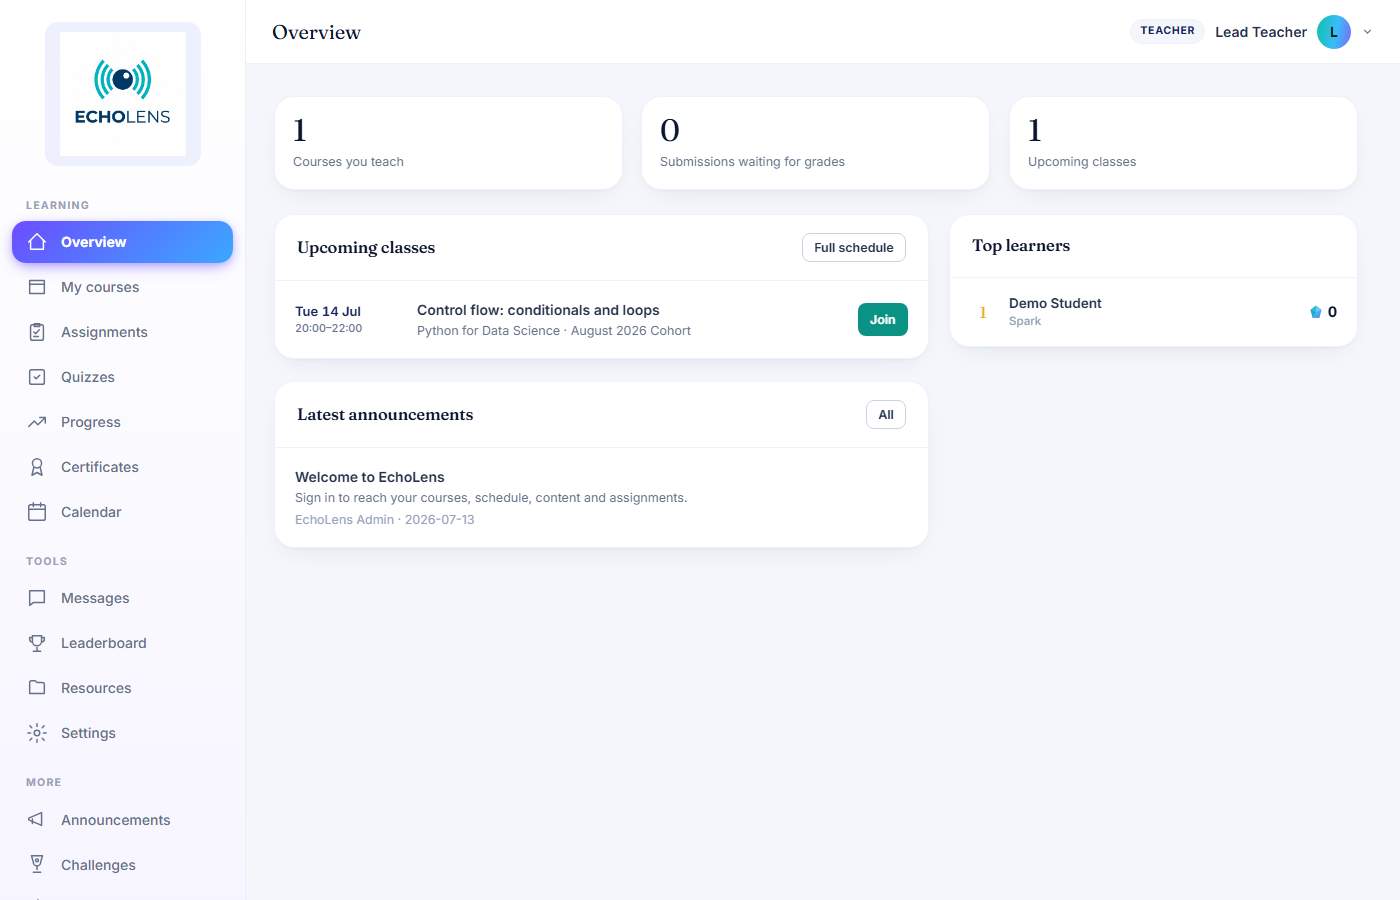
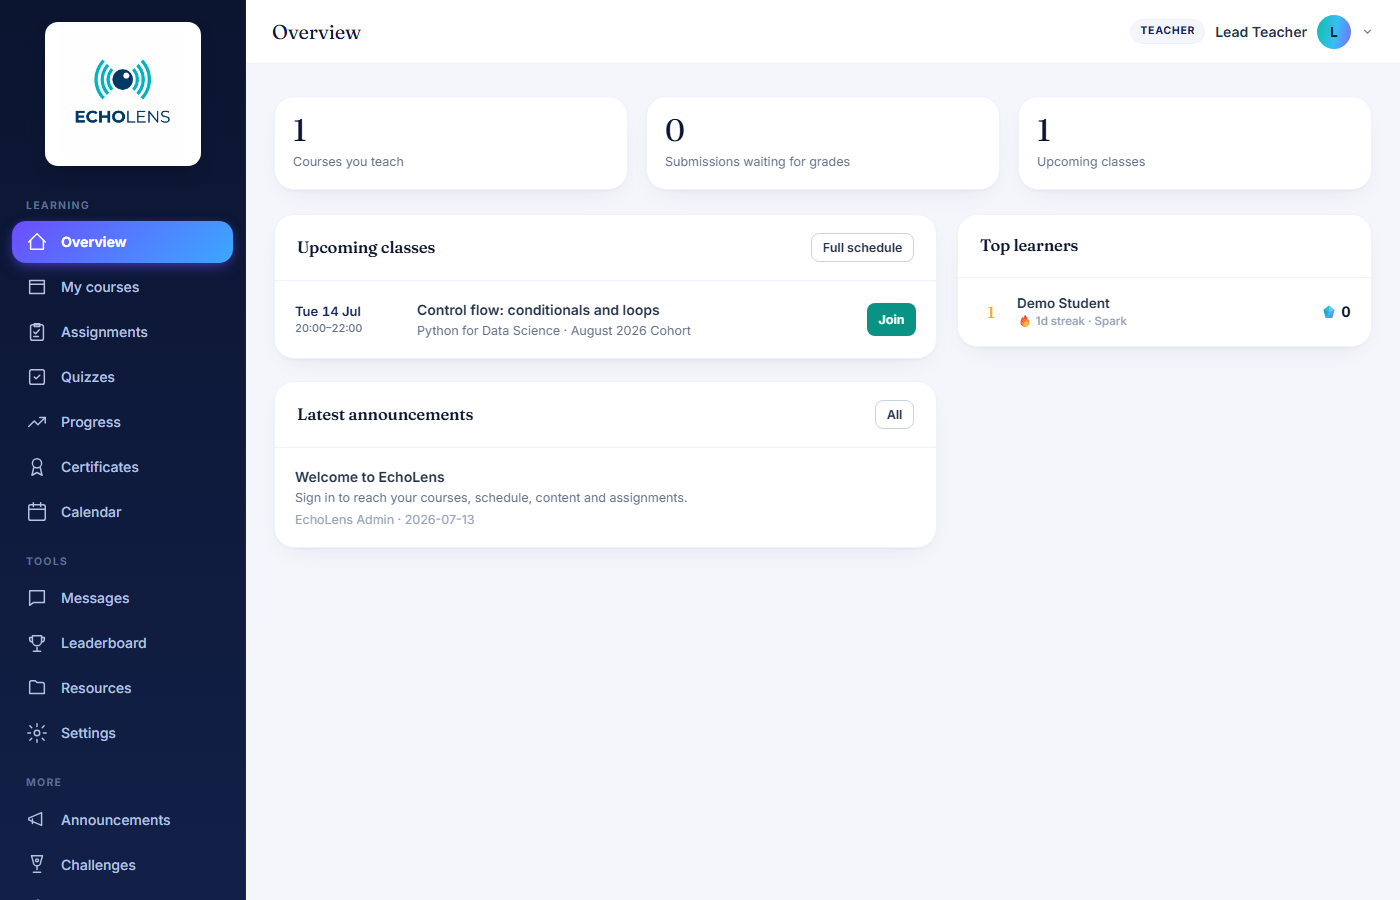
Update LMS with latest changes

diff --git a/public/css/styles.css b/public/css/styles.css
@@ -107,15 +107,15 @@ img{max-width:100%}
 
 /* ------------------------------ app shell ------------------------------ */
 .app{display:grid;grid-template-columns:246px 1fr;min-height:100vh}
-.sidebar{background:linear-gradient(180deg,#FFFFFF 0%,#F7F5FF 100%);color:var(--text);display:flex;flex-direction:column;position:sticky;top:0;height:100vh;border-right:1px solid #ECEEF7}
+.sidebar{background:linear-gradient(180deg,var(--ink) 0%,var(--ink-2) 100%);color:#C6D0E8;display:flex;flex-direction:column;position:sticky;top:0;height:100vh;border-right:1px solid rgba(255,255,255,.05)}
 .sidebar .brand{display:flex;justify-content:center;padding:22px 16px 18px}
-.logo-pill{background:var(--violet-soft);border-radius:13px;padding:10px 15px;display:inline-flex;box-shadow:none}
+.logo-pill{background:#fff;border-radius:13px;padding:10px 15px;display:inline-flex;box-shadow:0 8px 20px -10px rgba(0,0,0,.5)}
 .logo-pill img{width:126px;display:block}
 .sidebar nav{flex:1;padding:6px 12px 18px;overflow-y:auto}
-.nav-group{font-size:10.5px;font-weight:700;letter-spacing:.12em;text-transform:uppercase;color:var(--muted-2);padding:18px 14px 7px}
+.nav-group{font-size:10.5px;font-weight:700;letter-spacing:.12em;text-transform:uppercase;color:#5F6E92;padding:18px 14px 7px}
 .nav-group:first-child{padding-top:8px}
-a.nav-item{display:flex;align-items:center;gap:13px;color:var(--muted);padding:10px 14px;border-radius:10px;font-size:14px;font-weight:500;cursor:pointer;margin-bottom:3px;transition:background .18s ease,color .18s ease,box-shadow .18s ease}
-a.nav-item:hover{background:var(--violet-soft);color:var(--primary-deep)}
+a.nav-item{display:flex;align-items:center;gap:13px;color:#B7C1E0;padding:10px 14px;border-radius:10px;font-size:14px;font-weight:500;cursor:pointer;margin-bottom:3px;transition:background .18s ease,color .18s ease,box-shadow .18s ease}
+a.nav-item:hover{background:rgba(255,255,255,.07);color:#fff}
 a.nav-item.active{background:var(--primary-grad);color:#fff;font-weight:650;border-radius:14px;
   box-shadow:0 6px 18px -6px rgba(108,77,255,.55),0 2px 8px rgba(108,77,255,.28)}
 a.nav-item.active .ic{stroke:#fff}
@@ -128,7 +128,7 @@ a.nav-item.active .ic{stroke:#fff}
 .avatar{width:34px;height:34px;border-radius:50%;background:var(--gem-grad);color:#04231F;display:flex;align-items:center;justify-content:center;font-weight:700;font-size:14px}
 .role-pill{font-size:10.5px;font-weight:700;letter-spacing:.07em;text-transform:uppercase;color:var(--navy);background:var(--canvas);border:1px solid var(--line);padding:3px 9px;border-radius:999px}
 .menu-toggle{display:none;border:1px solid var(--line-strong);background:#fff;border-radius:9px;padding:7px 11px;cursor:pointer;font-weight:600;font-size:13px}
-.content{padding:32px 28px 60px;max-width:1140px;width:100%}
+.content{padding:32px 28px 60px;width:100%}
 .view{display:none}
 .view.active{display:block;animation:rise .25s ease}
 @keyframes rise{from{opacity:0;transform:translateY(6px)}to{opacity:1;transform:none}}

diff --git a/public/dashboard.html b/public/dashboard.html
@@ -8,7 +8,7 @@
 <link rel="preconnect" href="https://fonts.googleapis.com">
 <link rel="preconnect" href="https://fonts.gstatic.com" crossorigin>
 <link href="https://fonts.googleapis.com/css2?family=Fraunces:opsz,wght@9..144,400..650&family=Inter:wght@400;500;600;700&display=swap" rel="stylesheet">
-<link rel="stylesheet" href="/css/styles.css?v1233">
+<link rel="stylesheet" href="/css/styles.css?v1234">
 </head>
 <body>
 
@@ -114,10 +114,10 @@
 </div>
 
 <div class="toast" id="toast"></div>
-<script src="/js/coderunner.js?v1233"></script>
-<script src="/js/dashboard.js?v1233"></script>
+<script src="/js/coderunner.js?v1234"></script>
+<script src="/js/dashboard.js?v1234"></script>
 <script src="https://cdnjs.cloudflare.com/ajax/libs/three.js/r128/three.min.js"></script>
-<script src="/js/gem3d.js?v1233"></script>
-<script src="/js/tilt.js?v1233"></script>
+<script src="/js/gem3d.js?v1234"></script>
+<script src="/js/tilt.js?v1234"></script>
 </body>
 </html>

diff --git a/public/js/dashboard.js b/public/js/dashboard.js
@@ -387,7 +387,8 @@ async function renderStudentOverview(el, d) {
             </div>`).join('') : '<div class="empty">Earn gems to see them here.</div>'}</div></div>
         <div class="card"><div class="card-body" style="text-align:center">
           <div style="font-weight:650;margin-bottom:6px">Need help?</div>
-          <div class="s" style="color:var(--muted);margin-bottom:12px">Find answers, ask questions, and connect with peers.</div>
+          <div class="s" style="color:var(--muted);margin-bottom:8px">Find answers, ask questions, and connect with peers.</div>
+          <div class="s" style="color:var(--primary-deep);font-weight:600;margin-bottom:12px">info@echolens.digital</div>
           <a class="btn btn-ghost btn-block" href="mailto:info@echolens.digital">Contact support</a>
         </div></div>
       </div>
